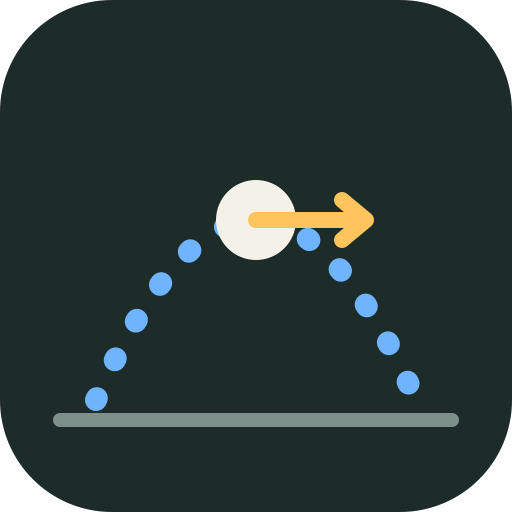
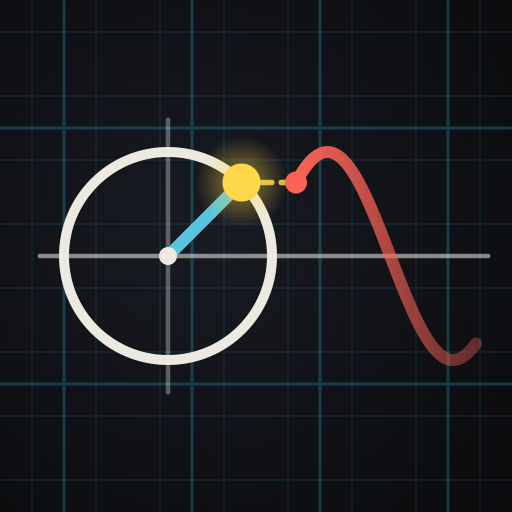
Nuova icona dell'app nello stile della scena
Il punto che gira sulla circonferenza e la sua proiezione che disegna la sinusoide,
su fondo quasi nero con la griglia NumberPlane, nei colori di Manim. Per la schermata
Home a fondo pieno (gli angoli li arrotonda iPadOS), per il browser con gli angoli
arrotondati; manifest con sfondo scuro.

diff --git a/sw.js b/sw.js
@@ -5,12 +5,13 @@
 // (avvio istantaneo, anche senza connessione). Quando si pubblica una nuova versione, il nuovo service worker
 // scarica i file aggiornati in sottofondo e aspetta che l'utente tocchi «Aggiorna».
 
-const VERSION = 'd31b630b48';
+const VERSION = 'c3ce946876';
 const FILES = [
   "./",
   "css/style.css",
   "icons/apple-touch-icon.png",
   "icons/icon-512.png",
+  "icons/icon-full.svg",
   "icons/icon.svg",
   "index.html",
   "js/core/anim.js",
